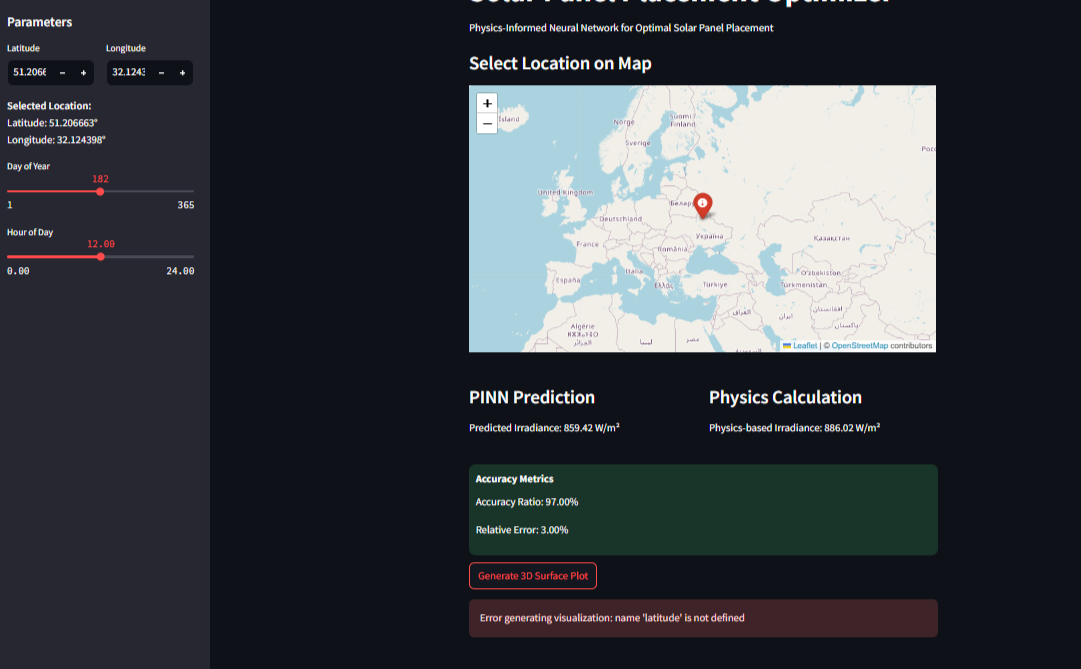
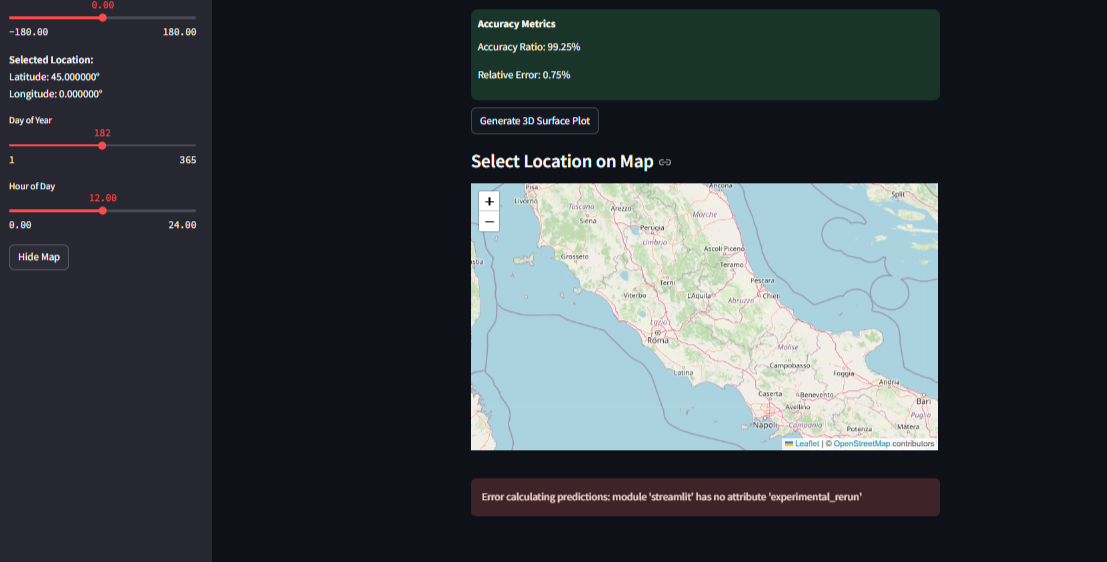
Agent query: Can you verify if: 1. The 'Selected Location:' text is removed from the sidebar, and 2. The map location selection and rerun functionality is working correctly?

diff --git a/main.py b/main.py
@@ -29,12 +29,7 @@ def main():
     latitude = st.sidebar.slider("Latitude", -90.0, 90.0, 45.0, 0.1)
     longitude = st.sidebar.slider("Longitude", -180.0, 180.0, 0.0, 0.1)
     
-    # Display current location information
-    st.sidebar.markdown(f"""
-        **Selected Location:**  
-        Latitude: {latitude:.6f}°  
-        Longitude: {longitude:.6f}°
-    """)
+    
     
     # Time parameters
     day_of_year = st.sidebar.slider("Day of Year", 1, 365, 182)
@@ -164,7 +159,7 @@ def main():
             if map_data['last_clicked']:
                 st.session_state.latitude = map_data['last_clicked']['lat']
                 st.session_state.longitude = map_data['last_clicked']['lng']
-                st.experimental_rerun()
+                st.rerun()
                 
     except Exception as e:
         st.error(f"Error calculating predictions: {str(e)}")
